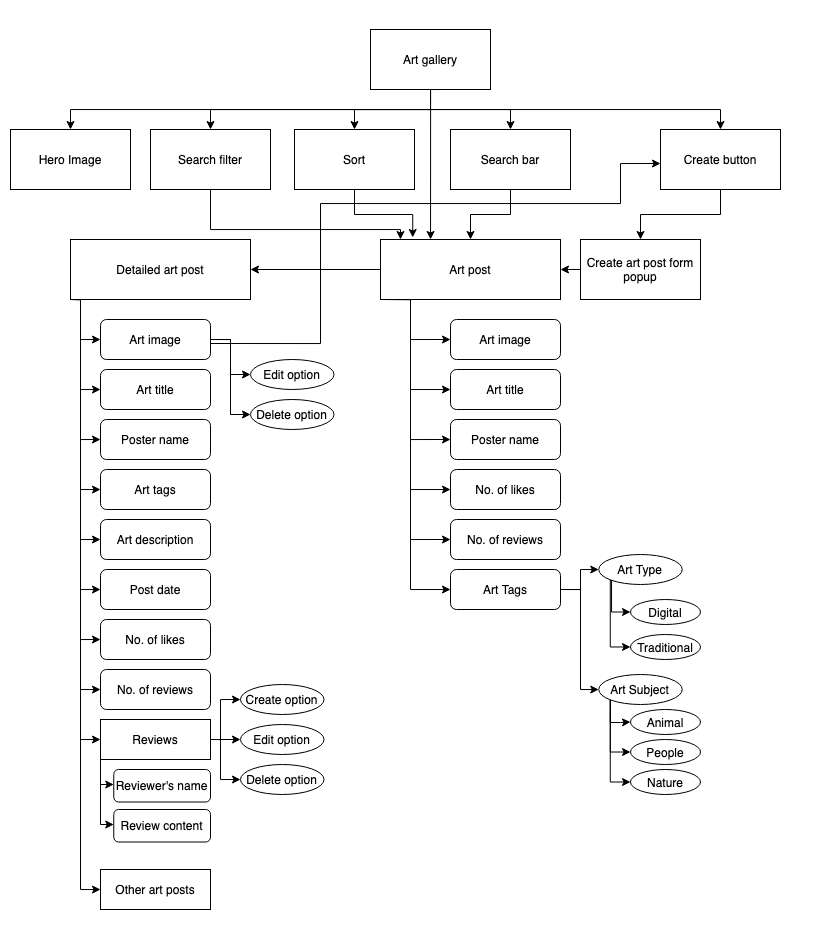
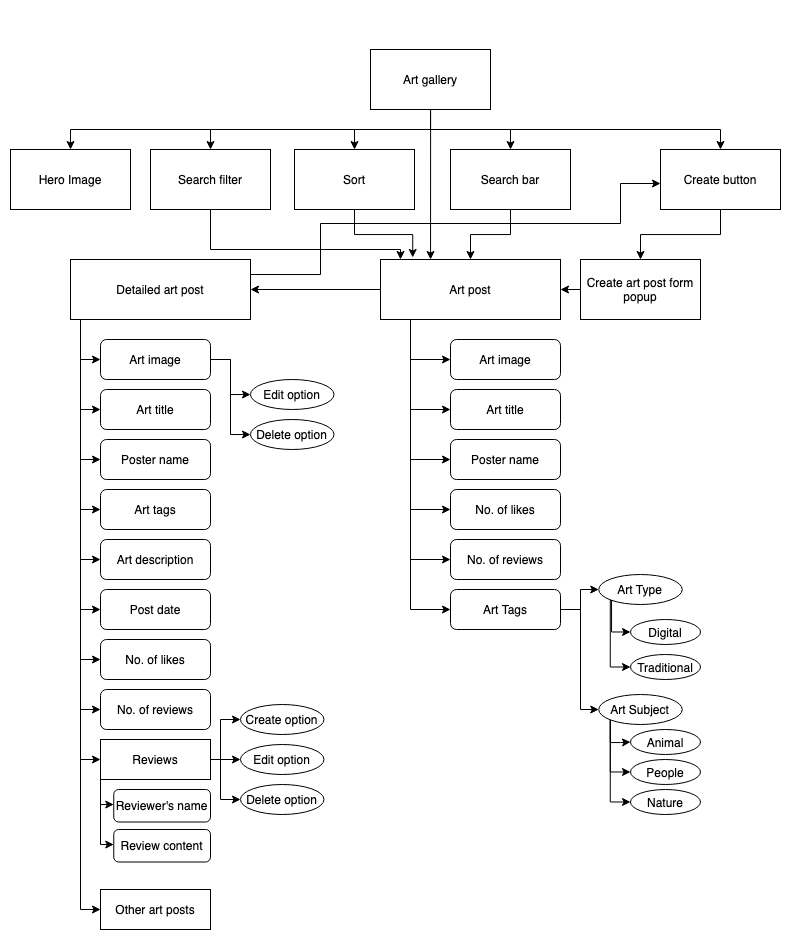
Updated readme

Changed region(s): [[0.0905, 0.0308, 0.9648, 0.9841], [0.0, 0.123, 0.1206, 0.2153], [0.0603, 0.2768, 0.0905, 0.3075]]

diff --git a/README.md b/README.md
@@ -81,17 +81,15 @@ _Non-functional requirements_
 <img src='./public/site_map_art_gallery.png'><br>
 
 
-* When user loads the website, they will land on the art gallery page which displays the available art posts. Users can use the search filter, sorting, and search bar to narrow and sort their results.
+* When user loads the website, they will land on the art gallery page which displays the art posts. Users can use the search filter, sorting dropdown selection, and search bar to narrow and/or sort their results.
 
-* Users would also see a hero image with words that highlight the mission of web app. This helps users to frame what the website is about.
+* Users would also see a hero image with words that highlight the mission of web app. This helps users to understand what the website is about.
 
-* Users can create an art post by clicking on the create button at the top of the screen. This direct them to a page where they can fill up information about the art they wish to post. Upon submission of their art details, they would be redirected to the gallery page to see their updated post there.
+* Users can create an art post by clicking on the create button at the top of the screen. This directs them to a page where they can fill up information about the art they wish to post. Upon submission of the art details, they would be redirected to the gallery page to see their updated art post there.
 
-* Clicking on a particular art post would direct users to a page with more details about the art post such as the description and reviews associated with it. They have the option to edit or delete the art post through a small dropdown menu.
+* Clicking on a particular art post would direct users to a page with more details about the art post such as the description and reviews associated with it. They have the option to edit or delete the art post through a small dropdown menu. Furthermore, users can create a review for the art post by filling up their name, review details, and clicking post in the form on the art post page.
 
-* Creating of a review is done within the page of a particular art post.
-
-
+* Clicking on edit art post or edit review button would cause a page or popup box to appear respectively. Saving the made change would return user to the art page.
 
 * The app uses language that is easy for users to understand and contains no technical jargons
 
@@ -105,15 +103,15 @@ _Colours_
 <img src='./public/art_gallery_colour_palette.png' style='display:block'>
 <br>
 
-* The main colours used to design the website are based on the colours in the logo. The colours consist of different shades of red, blue, and yellow which are primary colours. As all colours can be created from primary colours, it is a fitting palette for an art website that encourages creation of art from even its most simple form.
+* The main colours used to design the website are based on the colours in the logo. The colours consist of different shades of red, blue, and yellow which are primary colours. As all colours can be created from primary colours, it is a fitting palette for an art website as it suggests to users that they can create wonderful art even with the simplest palette.
 
 _Font Choice_
-* The font used throughout the website is san-serif to match the brand logo. The use of san-serif also makes words easier to read.
+* Majority of the font used throughout the website is san-serif to match the brand logo. The use of san-serif also makes words easier to read. Only the words in the hero image is in serif for aesthetic purposes.
 
 
 ## Features
 
-1. **Users can create, update, and delete art posts.** With just a click of a "create" button, users are directed to a forms page where they can fill up the details to make their art post. Their new art would then be updated in the gallery page. Once a user has clicked into a particular art post, they are able to edit or delete the art post through a dropdown button represented by an ellipses icon. 
+1. **Users can create, update, and delete art posts.** With just a click of a "create" button, users are directed to a form page where they can fill up the details to make their art post. Their new art would then be updated in the gallery page. Once a user has clicked into a particular art post, they are able to edit or delete the art post through a dropdown button represented by an ellipses icon. 
 
 2. **Users can create, update, and delete reviews.** Users can easily leave reviews for an art post by clicking into a particular art post and filling up the review form immediatelly. This feature encourages users to leave reviews with a call-to-action message "Help out another fellow artist by leaving a review!" and remove "roadblocks" having the form on the same page, thereby making it easier for users to create a review with a single click. Users are also able to update and delete reviews through a dropdown button represented by an ellipses icon. 
 
@@ -121,7 +119,10 @@ _Font Choice_
 
 4. **Users can filter art appearing on their gallery based on the art type and art subject.** This feature can be useful if users only wish to retrieve art results of a particular search criteria. For example, users can filter out all the traditional arts and retrieve only arts that are tagged as "digital art".
 
-5. **Section in every art page dedicated to showing other arts in the form of thumbnail.** This feature allows users to be able to navigate to other arts more easily. Through such implementation, users would be more likely to visit other art work and as a result increase their likelihood of leaving a review.
+
+5. **Users can sort art appearing on their gallery based on the most recent, most liked, and most reviewed.** 
+
+6. **Section in every art page dedicated to showing other arts in the form of thumbnail.** This feature allows users to be able to navigate to other arts more easily. Through such implementation, users would be more likely to visit other art work and as a result increase their likelihood of leaving a review.
 
 _Limitations and future implementations_
 * In the future, I would like to implement pagination so that users can click through the pages to browse the art posts instead of scrolling. This also relieves the load on the database and web application by limiting the number of results returned.
